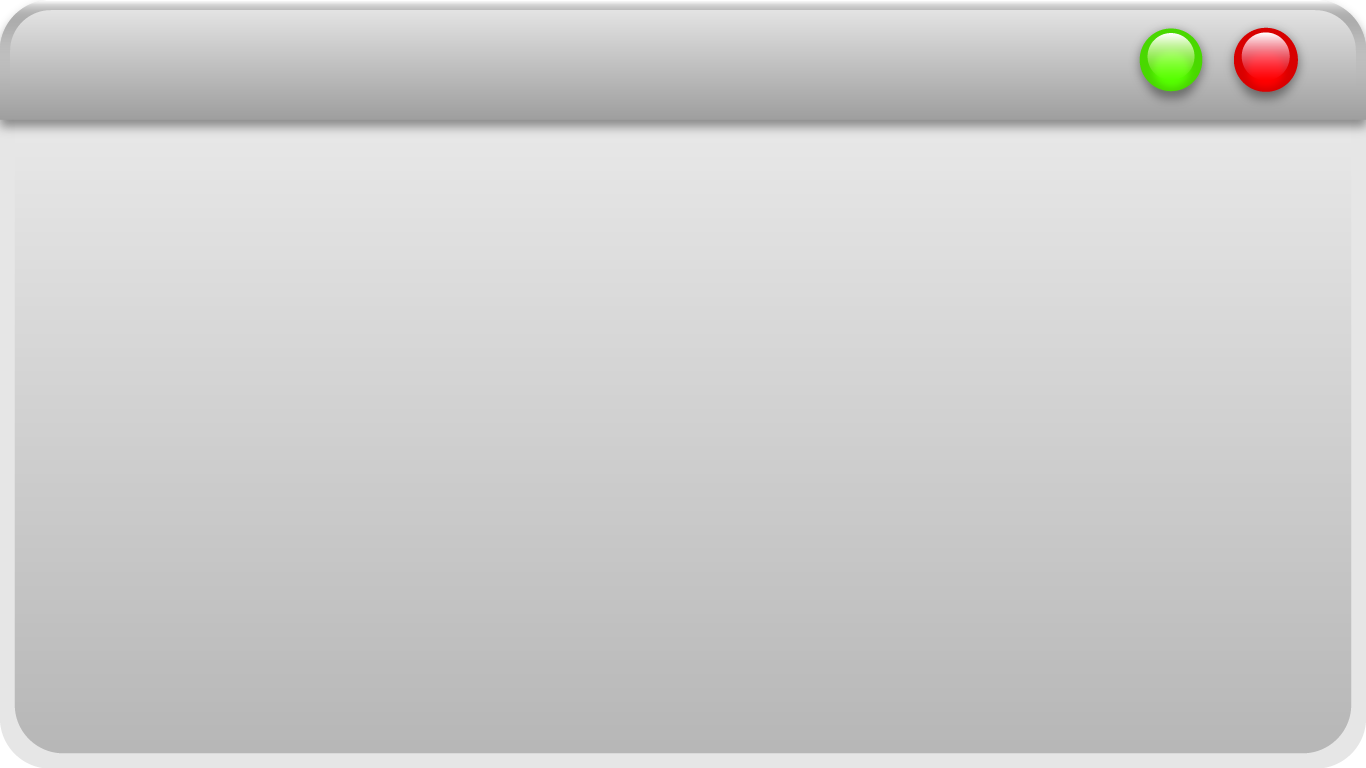
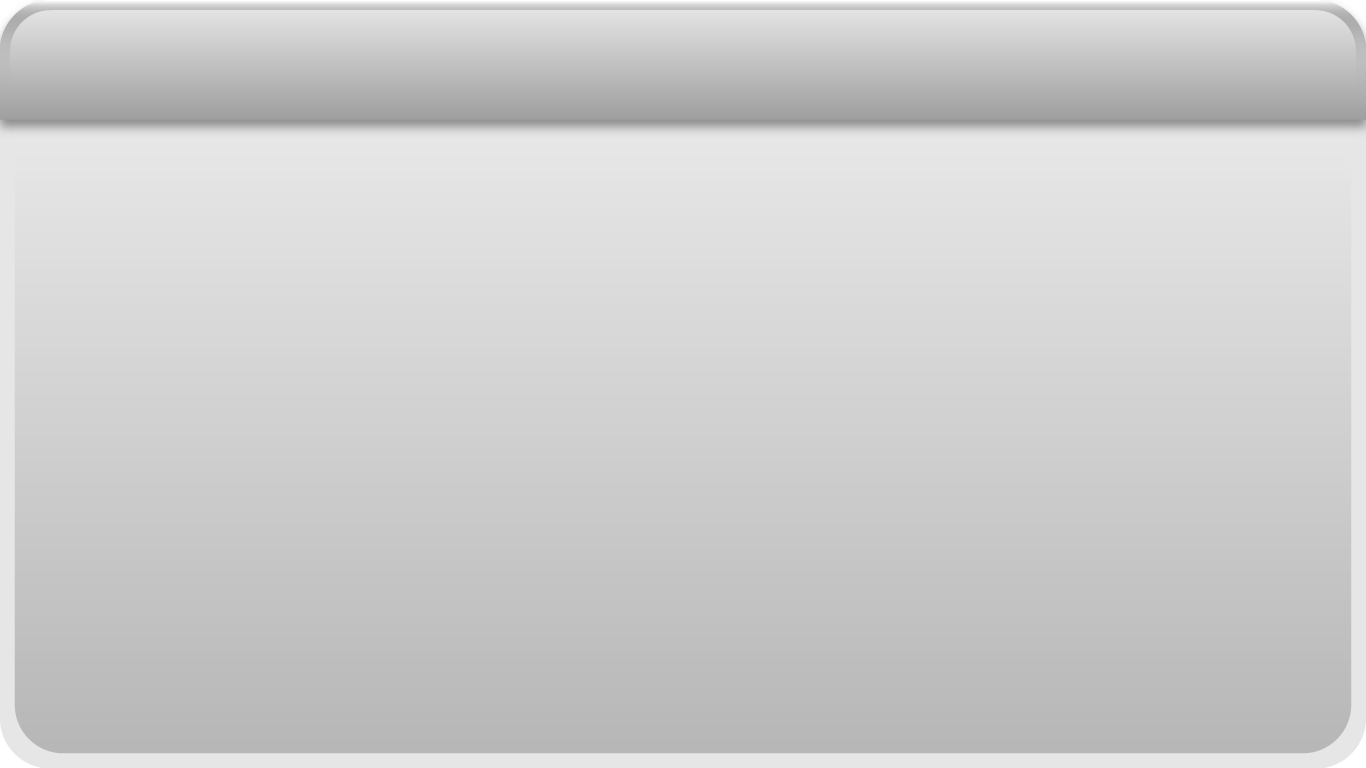
v0.6
+Fixed some bugs
+Updated Articles page
+Changed the window box asset

:D

Changed region(s): [[0.8302, 0.0312, 0.9531, 0.125]]

diff --git a/Camp Ctrl Website/WEBSITE-ARTICLES PAGE.html b/Camp Ctrl Website/WEBSITE-ARTICLES PAGE.html
@@ -16,14 +16,14 @@
     
     <div class="background">
         
-
- <!--intro-->
- <div class="intro">
-    <img class="introimg" src="" alt="">
-    </div>
-
-
-
+        
+        <!--intro-->
+        <div class="intro">
+            <img class="introimg" src="" alt="">
+        </div>
+        
+        
+        
         <!--
             TITLE AREA
         -->
@@ -39,9 +39,59 @@
         <div class="window-box">
             <div class="homepage1">
                 <div class="window-boxText">
-                    <iframe class="newsembed" src="https://news.google.com/search?q=sza" title="description"  width=”200px” height=”200px” id="googlenews"></iframe>
-                
+                    <div>
+                        <ul class="folder-list">
+                            <li>
+                                <a href="https://pitchfork.com/news/sza-releases-new-video-for-kill-bill-watch/">
+                                    <div class="file-name">SZA RELEASES NEW VIDEO FOR "KILL BILL"</div>
+                                    <div class="file-date">JAN 10 2023</div>
+                                </a>
+                            </li>
+                            <li>
+                                <a href="https://www.billboard.com/music/chart-beat/sza-sos-billboard-200-albums-chart-month-1235195487/">
+                                    <div class="file-name">SZA’s ‘SOS’ Makes It a Month at No. 1 on Billboard 200 Chart</div>
+                                    <div class="file-date">JAN 8 2023</div>
+                                </a>
+                            </li>
+                            <li>
+                                <a href="https://variety.com/2023/music/news/sza-kill-bill-music-video-vivica-a-fox-1235480805/">
+                                    <div class="file-name">SZA Recruits Vivica A. Fox for Tarantino-Inspired ‘Kill Bill’ Music Video</div>
+                                    <div class="file-date">JAN 10 2023</div>
+                                </a>
+                            </li>
+                            <li>
+                                <a href="https://hypebae.com/2022/12/sza-differences-sos-ctrl-debut-sophomore-albums">
+                                    <div class="file-name">SZA REFLECTS ON KEY DIFFERENCES BETWEEN 'SOS' AND 'CTRL'</div>
+                                    <div class="file-date">DEC 20 2022</div>
+                                </a>
+                            </li>
+                            <li>
+                                <a href="https://www.okayplayer.com/music/sza-ctrl-album-breakdown.html">
+                                    <div class="file-name">Without SZA’s ‘CTRL,’ R&B Wouldn’t Be Where It Is Now</div>
+                                    <div class="file-date">JUN 9 2022</div>
+                                </a>
+                            </li>
+                            <li>
+                                <a href="https://www.vibe.com/lists/sza-ctrl-songs-ranked/">
+                                    <div class="file-name">Every Song On SZA's 'CTRL' Ranked – VIBE.com</div>
+                                    <div class="file-date">JUN 30 2022</div>
+                                </a>
+                            </li>
+                            <li>
+                                <a href="https://ratedrnb.com/2022/06/sza-releases-ctrl-deluxe-album/">
+                                    <div class="file-name">SZA Releases 'Ctrl (Deluxe)' Album</div>
+                                    <div class="file-date">JUN 9 2022</div>
+                                </a>
+                            </li>
+                            <li>
+                                <a href="https://www.nytimes.com/2022/06/10/arts/music/playlist-sza-demi-lovato-lizzo.html">
+                                    <div class="file-name">SZA’s ‘Ctrl’ Bonus, and 8 More New Songs</div>
+                                    <div class="file-date">JUN 10 2022</div>
+                                </a>
+                            </li>
+                        </ul>
                     </div>
+                </div>
             </div>
         </div>
         <div class="window-box">
@@ -49,39 +99,41 @@
                 <div class="window-boxText"> 
                     <iframe class="newsembed" src="https://pitchfork.com/search/?query=SZA" width="480px" height="180px" style="border: none;"></iframe>
                 </div>
-        </div>
-
-        </div>
-        </div>
+            </div>
             
-                
         </div>
-        </div>
-        
-        
-        
-        
+    </div>
+    
+    
+</div>
+</div>
 
+
+
+
+
+</div>
+
+
+
+<!--
+    DOCK BAR
+-->
+<div class="dock">
+    <div class="dock-left"></div>
+    <div class="dock-middle">
+        <!-- content -->
+        <nav class="dock-nav">
+            <a href="WEBSITE-HOME PAGE.html">Home</a>
+            <a href="WEBSITE-MUSIC PAGE.html">Music</a>
+            <a href="WEBSITE-BLOG PAGE.html">Blog</a>
+            <a href="WEBSITE-ARTICLES.html">Articles</a>
+            <a href="WEBSITE-INFO PAGE.html">Info</a>
+            <a href="WEBSITE-CONTACT PAGE.html">Contact</a>
+        </nav>
     </div>
-    
-    <!--
-        DOCK BAR
-    -->
-    <div class="dock">
-        <div class="dock-left"></div>
-        <div class="dock-middle">
-            <!-- content -->
-            <nav class="dock-nav">
-                <a href="WEBSITE-HOME PAGE.html">Home</a>
-                <a href="WEBSITE-MUSIC PAGE.html">Music</a>
-                <a href="WEBSITE-BLOG PAGE.html">Blog</a>
-                <a href="WEBSITE-ARTICLES.html">Articles</a>
-                <a href="WEBSITE-INFO PAGE.html">Info</a>
-                <a href="WEBSITE-CONTACT PAGE.html">Contact</a>
-            </nav>
-        </div>
-        <div class="dock-right"></div>
-    </div>
-    
+    <div class="dock-right"></div>
+</div>
+
 </body>
 </html>

diff --git a/Camp Ctrl Website/WEBSITE STYLE.css b/Camp Ctrl Website/WEBSITE STYLE.css
@@ -61,9 +61,8 @@ transform: scale(-900%);
 .window-box .homepage1{
     width:500px;
     height:500px; 
-   
+    
     float: left;
- 
 
 }
 
@@ -88,6 +87,34 @@ transform: scale(-900%);
     display: flex;
     align-items: left;
     justify-content: left;
+
+}
+.window-box .window-boxText li{
+    font-size: 20px;
+    text-align: left;
+    float: left;
+    display: flex;
+    align-items: left;
+    justify-content: left;
+    color: rgb(255, 255, 255, 0.5 );
+}
+.window-box .window-boxText li a .file-name{
+    font-size: 12px;
+    text-align: left;
+    float: left;
+    display: flex;
+    margin: 9px;
+    color: rgb(0, 0, 0, 0.5 );
+}
+.window-box .window-boxText li .file-date{
+    font-size: 12px;
+    margin: 0px;
+    text-align: right;
+    float: right;
+    display: block;
+    align-items: right;
+    justify-content: right;
+    margin-left: 300px;
 }
 
 .window-box .window-boxText .homepage2 {
@@ -100,6 +127,7 @@ text-align: left;
     display: flex;
     align-items: right;
     justify-content: right;
+    
 }
 
 
@@ -152,11 +180,28 @@ float: right;
 }
 
 
+.contxt p br {
+    margin: 0px;
+    width: 600px;
+}
 
-
-
-
-
+.folder-list {
+    margin: 0px;
+    width: 500px;
+    transform: scale(-70%);
+    rotate: 180deg;
+    margin-top: 10px;
+    height: 270px;
+    border-radius: 10px;
+    scroll-behavior: auto;
+    background-color: rgb(255, 255, 255, 0.5);
+    overflow-x: hidden;
+                overflow-y: auto;
+                text-align:justify;
+                list-style: none;
+                padding: 0;
+                
+}
 
 
 
@@ -272,7 +317,7 @@ margin-left: 30px;
 /*animation*/
 
 .intro {
-animation: intro ease 0s;
+animation: intro ease 1s;
 animation-iteration-count: 1;
 animation-fill-mode: forwards;}
 .intro1 {
@@ -328,24 +373,27 @@ button
     font-family: 'Times New Roman', Times, serif;
     color: red;
     border: rgb(0, 0, 0, 0.5 );
+    background-color: rgb(255, 255, 255, 0.5);
+    border-radius: 10px;
 }
 
 textarea {
     font-family: 'Times New Roman', Times, serif;
-    background-color: rgb(0, 0, 0, 0 );
+    background-color: rgba(255, 255, 255, 0.5);
     border-radius: 5px;
     border: rgb(0, 0, 0, 0.5 );
 }
 
 input {
     font-family: 'Times New Roman', Times, serif;
-    background-color: rgb(0, 0, 0, 0 );
+    background-color: rgb(255, 255, 255, 0.5 );
     border-radius: 5px;
     border: rgb(0, 0, 0, 0.5 );
+    margin: 3px;
 }
 select {
     font-family: 'Times New Roman', Times, serif;
-    background-color: rgb(0, 0, 0, 0 );
+    background-color: rgb(255, 255, 255, 0.5);
     border-radius: 5px;
     border: rgb(0, 0, 0, 0.5 );
 }

diff --git a/Camp Ctrl Website/WEBSITE-CONTACT PAGE.html b/Camp Ctrl Website/WEBSITE-CONTACT PAGE.html
@@ -38,7 +38,17 @@
         <div class="window-box">
             <div class="homepage1">
                 <div class="window-boxText">
-                    
+                    <p class="contxt">
+                        Contact us by
+                        
+                        <br>
+                        Email: sza@campctrl.com
+                        <br>
+                        Mob: 7652-6200
+                        <br>
+                        Address: Triq il-Kbira, Sliema, Malta
+                        </p>
+
                 </div>
             </div>
         </div>
